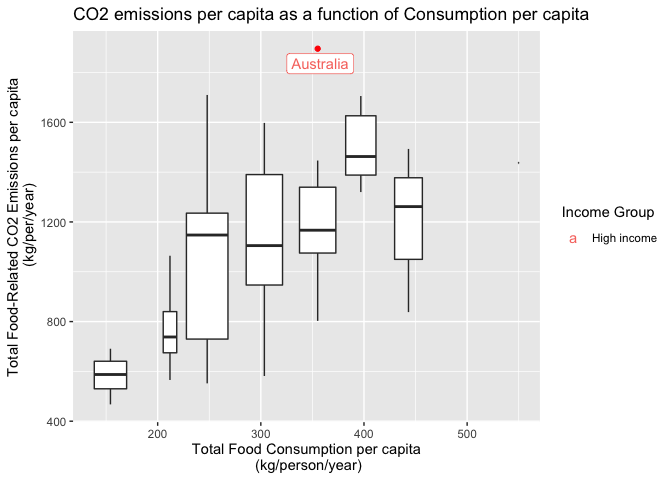
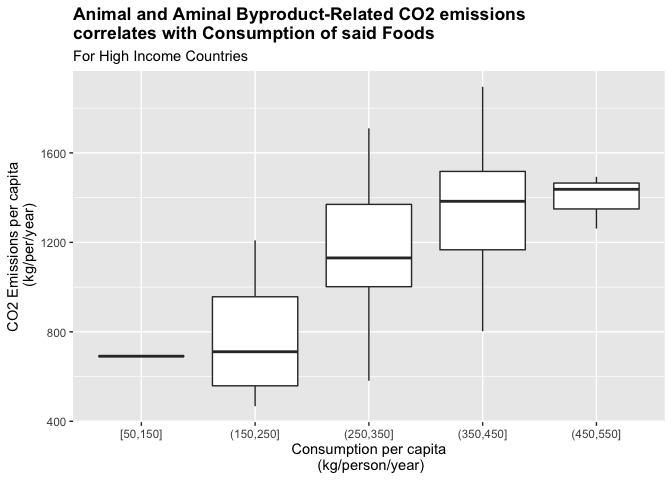
Last push tonight

diff --git a/challenges/p01-food_emissions.md b/challenges/p01-food_emissions.md
@@ -69,6 +69,7 @@ library(tidyverse)
 ``` r
 library(gapminder)
 library(ggrepel)
+library(wesanderson)
 ```
 
 ``` r
@@ -212,7 +213,7 @@ df_food_high_income <- df_food_all %>%
 ```
 
 ``` r
-group_width <- 50
+group_width <- 100
 
 high_income_groups <- df_food_high_income %>% 
   select(
@@ -238,38 +239,34 @@ high_income_group_outliers <- high_income_groups %>%
   ungroup() %>% 
   filter(upper < co2_food_country | co2_food_country < lower)
 
-high_income_beef <- df_food_high_income %>% 
-  filter(food_category == "Beef")
-
 high_income_groups %>% 
   ggplot(
     aes(
-      x = food_consumption_country,
-      y = co2_food_country,
-      group = cut_width(food_consumption_country, group_width)
+      x = food_consumption_group,
+      y = co2_food_country
     )
   ) +
-  geom_boxplot(
-    outlier.color = "red" 
-  ) +
-  geom_label_repel(
-    data = high_income_group_outliers,
-    mapping = aes(
-      label = country,
-      color = income_grp
-    )
-  ) +
+  geom_boxplot() +
   labs(
-    title = "CO2 emissions per capita as a function of Consumption per capita",
-    x = "Total Food Consumption per capita\n (kg/person/year)",
-    y = "Total Food-Related CO2 Emissions per capita\n (kg/per/year)",
-    color = "Income Group"
-  )
+     title = "Animal and Aminal Byproduct-Related CO2 emissions \ncorrelates with Consumption of said Foods",
+    subtitle = "For High Income Countries",
+    x = "Consumption per capita\n (kg/person/year)",
+    y = "CO2 Emissions per capita\n (kg/per/year)",
+    color = "Beef as Percent\n of Animal Diet (%)"
+  ) +
+  theme(plot.title = element_text(face = "bold")) +
+  scale_color_manual(values=wes_palette(n=4, name="Darjeeling1")) 
 ```
 
 ![](p01-food_emissions_files/figure-gfm/and%20some%20final%20plots-1.png)<!-- -->
 
 ``` r
+high_income_beef <- df_food_high_income %>% 
+  filter(food_category == "Beef") %>% 
+  mutate(
+    beef_group = cut_width(percent_diet*100,4, boundary = 0)
+  )
+
 high_income_groups %>% 
   ggplot(
     aes(
@@ -279,15 +276,91 @@ high_income_groups %>%
   ) +
   geom_point(
     aes(
-      alpha = high_income_beef$percent_diet
+      color = high_income_beef$beef_group
     )
   ) +
   labs(
-    title = "CO2 emissions per capita as a function of Consumption per capita",
-    x = "Total Food Consumption per capita\n (kg/person/year)",
-    y = "Total Food-Related CO2 Emissions per capita\n (kg/per/year)",
-    color = "Income Group"
-  )
+    title = "Countries that consume more beef tend to produce\n more CO2 emissions",
+    subtitle = "For High Income Countries",
+    x = "Animal (and Byproduct) Consumption per capita\n (kg/person/year)",
+    y = "Animal (and Byproduct) Related-CO2 Emissions\n per capita\n (kg/per/year)",
+    color = "Beef as Percent\n of Animal Diet (%)"
+  ) +
+  theme(plot.title = element_text(face = "bold")) +
+  scale_color_manual(values=wes_palette(n=4, name="Darjeeling1")) 
 ```
 
-![](p01-food_emissions_files/figure-gfm/and%20some%20final%20plots-2.png)<!-- -->
+![](p01-food_emissions_files/figure-gfm/beef%20eaters-1.png)<!-- -->
+
+``` r
+df_companion_countries <- df_food_high_income %>% 
+  mutate(
+    food_consumption_group = cut_width(food_consumption_country, group_width)
+  ) %>% 
+  filter(food_consumption_group == "(350,450]")
+
+df_companion_countries
+```
+
+    ## # A tibble: 105 x 12
+    ##    country food_category consumption co2_emmission population region income_grp
+    ##    <chr>   <chr>               <dbl>         <dbl>      <dbl> <chr>  <chr>     
+    ##  1 Austra… Pork                24.1          85.4    23600000 East … High inco…
+    ##  2 Austra… Poultry             46.1          49.5    23600000 East … High inco…
+    ##  3 Austra… Beef                33.9        1045.     23600000 East … High inco…
+    ##  4 Austra… Lamb & Goat          9.87        346.     23600000 East … High inco…
+    ##  5 Austra… Fish                17.7          28.2    23600000 East … High inco…
+    ##  6 Austra… Eggs                 8.51          7.82   23600000 East … High inco…
+    ##  7 Austra… Milk - inc. …      234.          334.     23600000 East … High inco…
+    ##  8 Iceland Pork                21.7          76.8      329000 Europ… High inco…
+    ##  9 Iceland Poultry             26.9          28.9      329000 Europ… High inco…
+    ## 10 Iceland Beef                13.4         412.       329000 Europ… High inco…
+    ## # … with 95 more rows, and 5 more variables: co2_food_country <dbl>,
+    ## #   food_consumption_country <dbl>, percent_diet <dbl>, percent_co2 <dbl>,
+    ## #   food_consumption_group <fct>
+
+``` r
+df_companion_countries %>% 
+  ggplot() +
+  geom_col(
+    aes(
+      y = reorder(country, co2_food_country),
+      x = percent_diet,
+      fill = food_category
+    )
+  ) +
+  labs(
+    title = "Milk and Cheese is a major food group!",
+    subtitle = "For High Income Countries",
+    x = "Percentage of Diet (%)",
+    y = "Country",
+    color = "Animal or Animal Byproduct"
+  ) +
+  theme(plot.title = element_text(face = "bold")) +
+  scale_color_manual(values=wes_palette(n=4, name="Darjeeling1")) 
+```
+
+![](p01-food_emissions_files/figure-gfm/countries%20to%20emulate-1.png)<!-- -->
+
+``` r
+df_companion_countries %>% 
+  ggplot() +
+  geom_col(
+    aes(
+      y = reorder(country, co2_food_country),
+      x = co2_emmission,
+      fill = food_category
+    )
+  )+
+  labs(
+    title = "Beef, Lamb, and Goat are major CO2 emittors",
+    subtitle = "For High Income Countries",
+    x = "CO2 Emissions (kg/person/year)",
+    y = "Country",
+    color = "Animal or Animal Byproduct"
+  ) +
+  theme(plot.title = element_text(face = "bold")) +
+  scale_color_manual(values=wes_palette(n=4, name="Darjeeling1")) 
+```
+
+![](p01-food_emissions_files/figure-gfm/countries%20to%20emulate-2.png)<!-- -->
